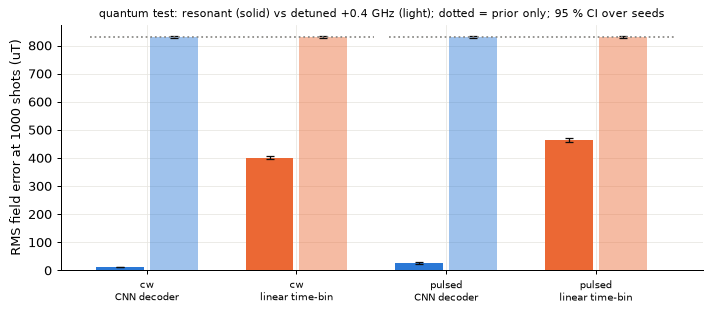
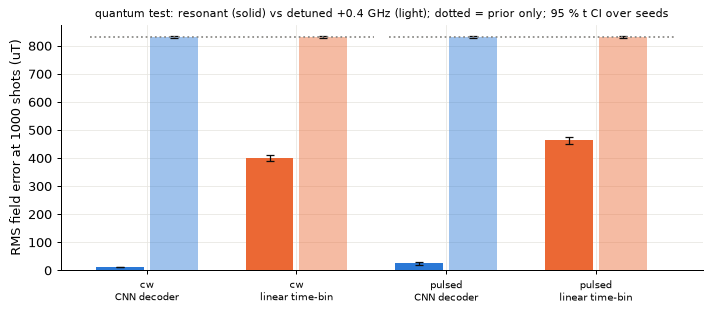
Milestone 2 report rerun: t CIs over seeds, same-field fit-vs-CNN table, separate timing verdicts
Claude-Session: https://claude.ai/code/session_011moV3EPNNknRWZQ686AChh

diff --git a/docs/results/m2-field-estimation.md b/docs/results/m2-field-estimation.md
@@ -7,7 +7,7 @@ Task 1 of the brief: estimate a hidden magnetic field from the glow. Two fixed s
 - **Hidden field**: |B| uniform in [0.5, 3] mT, isotropic direction. An ODMR spectrum cannot tell the sign of B along an NV axis nor which line belongs to which axis, so B is identifiable only up to the 48 signed permutations of the crystal axes; the target is the canonical representative, B folded into the wedge Bx >= By >= Bz >= 0 (generically unique). Errors are the vector error |B_hat - B| in µT.
 - **Nuisance** (one draw per group of 8 fields): T2* log-uniform 0.5-2 µs, Rabi full scale 8-12 MHz, optical beta 0.07-0.13, collection 2e-3-4e-3, background 5e3-2e4 counts/s, strain E 0-0.3 MHz. Decoders see counts normalised by their own mean, so absolute brightness is not a cue.
 - **Protocols** (sweep 2.77-2.97 GHz, 200 points, 1 MHz step): *CW ODMR*, laser + MW (amplitude 0.1) in the steady state, 3 µs dwell per shot per point, one number per point; *pulsed ODMR*, 1.5 µs init, 1 µs dark, a 310 ns MW pulse at amplitude 0.2 (a pi pulse at the nominal Rabi full scale), 600 ns readout recorded in 60 bins of 10 ns: a 60 x 200 input. Shot lengths 3 µs (CW) and 3.41 µs (pulsed), so equal shots are nearly equal time budgets.
-- **Datasets**: per seed 5000 train / 512 validation / 1000 test fields; the surrogate gives the noiseless mean counts of every input cell (M = 32 weighted-uniform detuning nodes, spacing 2 widths), and Poisson noise for a log-uniform number of shots in [10, 10000] is drawn fresh at every training step. CW points use the surrogate's steady-state solve, pulsed sweeps share their init + settle prefix (exact fast paths, docs/notes/surrogate.md). Bank generation took 421 s (CW) and 1544 s (pulsed) in total on cuda NVIDIA GeForce RTX 5070 Ti.
+- **Datasets**: per seed 5000 train / 512 validation / 1000 test fields; the surrogate gives the noiseless mean counts of every input cell (M = 32 weighted-uniform detuning nodes, spacing 2 widths), and Poisson noise for a log-uniform number of shots in [10, 10000] is drawn fresh at every training step. CW points use the surrogate's steady-state solve, pulsed sweeps share their init + settle prefix (exact fast paths, docs/notes/surrogate.md). Bank generation took 416 s (CW) and 1555 s (pulsed) in total on cuda NVIDIA GeForce RTX 5070 Ti.
 
 ## Estimators
 
@@ -17,97 +17,112 @@ Task 1 of the brief: estimate a hidden magnetic field from the glow. Two fixed s
 
 ## Error vs shots
 
-RMS field error (µT), mean over seeds with 95 % bootstrap CI, resonant condition:
+RMS field error (µT), resonant: mean over the 5 seeds with a 95 % Student-t CI over seeds (mean ± t_(n-1) s / √n; each seed has its own fields, nuisance, initialisation and noise, 1000 test fields):
 
-| shots | cw CNN decoder | cw linear time-bin | pulsed CNN decoder | pulsed linear time-bin | cw physics fit | pulsed physics fit |
-| --- | --- | --- | --- | --- | --- | --- |
-| 10 | 464 [455, 473] | 749 [746, 753] | 757 [751, 762] | 1.37e+03 [1.36e+03, 1.38e+03] | 697 | 817 |
-| 30 | 240 [236, 243] | 534 [530, 539] | 639 [629, 650] | 883 [867, 904] | 359 | 810 |
-| 100 | 67.4 [61.8, 75.3] | 447 [441, 452] | 412 [404, 421] | 609 [602, 617] | 36.3 | 609 |
-| 300 | 20.4 [19.9, 20.9] | 412 [406, 420] | 172 [168, 175] | 505 [501, 510] | 20 | 197 |
-| 1000 | 11.9 [11.4, 12.5] | 401 [395, 407] | 26.3 [23.6, 29.1] | 463 [457, 470] | 13.5 | 18.6 |
-| 3000 | 9 [8.48, 9.81] | 397 [392, 403] | 10.1 [9.41, 11.2] | 451 [446, 458] | 11.9 | 11.7 |
-| 10000 | 7.68 [7.17, 8.45] | 396 [391, 402] | 7.55 [7.16, 8.08] | 447 [441, 454] | 10.2 | 10.1 |
+| shots | cw CNN decoder | cw linear time-bin | pulsed CNN decoder | pulsed linear time-bin |
+| --- | --- | --- | --- | --- |
+| 10 | 464 [450, 479] | 749 [744, 754] | 756 [747, 765] | 1.37e+03 [1.36e+03, 1.39e+03] |
+| 30 | 241 [234, 247] | 534 [527, 542] | 640 [625, 656] | 883 [854, 911] |
+| 100 | 67.1 [57.5, 76.7] | 447 [439, 455] | 411 [399, 423] | 609 [597, 621] |
+| 300 | 20.3 [19.6, 21] | 412 [401, 424] | 171 [165, 177] | 505 [498, 513] |
+| 1000 | 11.9 [11, 12.9] | 401 [392, 411] | 26.4 [21.1, 31.8] | 463 [452, 474] |
+| 3000 | 9.06 [7.89, 10.2] | 397 [388, 406] | 10.2 [8.62, 11.8] | 451 [442, 461] |
+| 10000 | 7.76 [6.66, 8.86] | 396 [387, 405] | 7.52 [6.65, 8.4] | 447 [436, 457] |
 
-Prior only (predicting the training mean): 830 µT. Physics fit vs CNN on the *same* fields and noise level (seed 0): cw 10 shots: fit 697 vs CNN 495 µT (fit found dips in 31 %); cw 1000 shots: fit 13.5 vs CNN 11.4 µT (fit found dips in 100 %); cw 10000 shots: fit 10.2 vs CNN 7.64 µT (fit found dips in 100 %); pulsed 10 shots: fit 817 vs CNN 745 µT (fit found dips in 1 %); pulsed 1000 shots: fit 18.6 vs CNN 35.3 µT (fit found dips in 100 %); pulsed 10000 shots: fit 10.1 vs CNN 6.74 µT (fit found dips in 100 %).
+Prior only (predicting the training mean): 830 µT.
+
+### Physics fit vs CNN on the same fields
+
+Seed 0 only, the first 300 test fields, every shot level; fit and CNN each see their own Poisson draw at the same number of shots. Differences are fit - CNN (negative: the fit is better) with 95 % paired-bootstrap CIs over the fields; median = typical-case error; ok = fraction of fits that found significant dips (the rest return the prior).
+
+| protocol | shots | fit RMSE | CNN RMSE | RMSE fit - CNN | fit median | CNN median | median fit - CNN | fit ok |
+| --- | --- | --- | --- | --- | --- | --- | --- | --- |
+| cw | 10 | 697 | 494 | 203 [142, 259] | 534 | 302 | 232 [151, 295] | 31 % |
+| cw | 30 | 359 | 236 | 123 [60.1, 181] | 60.2 | 113 | -53.1 [-70.3, -39] | 86 % |
+| cw | 100 | 36.3 | 53.1 | -16.8 [-24.3, -10] | 26.1 | 33.3 | -7.2 [-12.6, -3.95] | 100 % |
+| cw | 300 | 20 | 22.1 | -2.01 [-6.53, 1.57] | 15.4 | 16.7 | -1.3 [-2.7, 0.319] | 100 % |
+| cw | 1000 | 13.5 | 11.4 | 2.16 [0.734, 3.63] | 8.62 | 8.79 | -0.166 [-0.963, 0.546] | 100 % |
+| cw | 3000 | 11.9 | 8.92 | 2.96 [1.14, 4.92] | 5.74 | 5.96 | -0.213 [-0.893, 0.465] | 100 % |
+| cw | 10000 | 10.2 | 7.55 | 2.69 [0.675, 4.62] | 3.38 | 4.62 | -1.23 [-1.61, -0.708] | 100 % |
+| pulsed | 10 | 817 | 746 | 71.4 [32.7, 111] | 722 | 609 | 112 [64, 170] | 1 % |
+| pulsed | 30 | 810 | 621 | 189 [148, 228] | 721 | 470 | 250 [176, 296] | 3 % |
+| pulsed | 100 | 609 | 420 | 190 [136, 245] | 300 | 214 | 86.2 [-12.4, 172] | 54 % |
+| pulsed | 300 | 197 | 147 | 49.7 [-6.77, 101] | 23.7 | 51.2 | -27.5 [-39, -19.7] | 97 % |
+| pulsed | 1000 | 18.6 | 35.9 | -17.2 [-36.7, -0.843] | 11.7 | 13.2 | -1.47 [-3.11, -0.326] | 100 % |
+| pulsed | 3000 | 11.7 | 9.16 | 2.5 [1.25, 3.79] | 7.97 | 7.29 | 0.678 [-0.286, 1.66] | 100 % |
+| pulsed | 10000 | 10.1 | 6.55 | 3.53 [2.28, 4.86] | 5.58 | 4.99 | 0.591 [0.193, 1.21] | 100 % |
+
+Comparison against the classical baseline: **cw**: by RMSE the fit is better at 100 shots, the CNN at 10, 30, 1000, 3000, 10000, no significant difference at 300; by median (typical case) the fit is better at 30, 100, 10000, the CNN at 10, no significant difference at 300, 1000, 3000; where the fit wins on median but not on RMSE, a minority of large fit errors (failed fits, mis-assigned lines, shape bias) carries its RMSE: 30 (14 % failed fits), 10000 (0 % failed fits). **pulsed**: by RMSE the fit is better at 1000 shots, the CNN at 10, 30, 100, 3000, 10000, no significant difference at 300; by median (typical case) the fit is better at 300, 1000, the CNN at 10, 30, 10000, no significant difference at 100, 3000; where the fit wins on median but not on RMSE, a minority of large fit errors (failed fits, mis-assigned lines, shape bias) carries its RMSE: 300 (3 % failed fits). In short, the physics fit is cw: as good or better by RMSE at 100, 300 shots, in the typical case at 30, 100, 300, 1000, 3000, 10000; pulsed: as good or better by RMSE at 300, 1000 shots, in the typical case at 100, 300, 1000, 3000. The CNN wins where the fit finds no dips (the lowest shot levels) and on RMSE at high shots, where the fit's E = 0 / Lorentzian-shape bias sets a floor; it is not better everywhere, and its other advantage is an uncertainty that is close to calibrated (next section).
 
 ## Calibration
 
-Calibration of the predicted per-component sigma, resonant, mean over seeds: RMS of error / sigma (1 = calibrated) and coverage of the 68 % / 95 % intervals.
+Calibration of the predicted per-component sigma, resonant, mean over seeds: RMS of error / sigma (1 = calibrated) and coverage of the 68 % / 95 % intervals. Fit columns: seed 0, 300 fields.
 
 | shots | cw CNN decoder | cw linear time-bin | pulsed CNN decoder | pulsed linear time-bin | cw fit | pulsed fit |
 | --- | --- | --- | --- | --- | --- | --- |
-| 10 | 1.01 (72 / 95 %) | 1.28 (57 / 88 %) | 1.01 (67 / 95 %) | 1.25 (59 / 89 %) | 11.40 (55 / 78 %) | 18.84 (66 / 96 %) |
-| 30 | 0.99 (75 / 95 %) | 1.01 (68 / 95 %) | 1.00 (70 / 95 %) | 1.04 (68 / 94 %) | 4.53 (50 / 73 %) | 35.23 (64 / 94 %) |
-| 100 | 1.02 (71 / 94 %) | 0.92 (73 / 97 %) | 1.00 (74 / 95 %) | 0.93 (73 / 96 %) | 1.40 (62 / 88 %) | 11.47 (52 / 74 %) |
-| 300 | 1.08 (66 / 93 %) | 0.91 (73 / 97 %) | 1.02 (74 / 95 %) | 0.90 (75 / 97 %) | 1.18 (65 / 91 %) | 10.20 (50 / 77 %) |
-| 1000 | 1.15 (64 / 91 %) | 0.97 (70 / 96 %) | 1.11 (66 / 93 %) | 0.94 (73 / 96 %) | 1.25 (66 / 91 %) | 1.51 (60 / 85 %) |
-| 3000 | 1.15 (67 / 92 %) | 1.04 (67 / 94 %) | 1.15 (64 / 92 %) | 1.03 (69 / 94 %) | 1.72 (57 / 83 %) | 1.77 (57 / 84 %) |
-| 10000 | 1.13 (70 / 93 %) | 1.15 (62 / 91 %) | 1.05 (70 / 94 %) | 1.21 (63 / 90 %) | 2.16 (54 / 79 %) | 2.26 (50 / 78 %) |
+| 10 | 1.01 (73 / 95 %) | 1.28 (57 / 88 %) | 1.01 (67 / 95 %) | 1.25 (59 / 89 %) | 11.40 (55 / 78 %) | 18.84 (66 / 96 %) |
+| 30 | 0.99 (74 / 95 %) | 1.01 (68 / 95 %) | 1.00 (70 / 95 %) | 1.04 (68 / 94 %) | 4.53 (50 / 73 %) | 35.23 (64 / 94 %) |
+| 100 | 1.02 (71 / 95 %) | 0.92 (73 / 97 %) | 0.99 (74 / 95 %) | 0.93 (73 / 96 %) | 1.40 (62 / 88 %) | 11.47 (52 / 74 %) |
+| 300 | 1.08 (66 / 93 %) | 0.91 (73 / 97 %) | 1.03 (74 / 94 %) | 0.90 (75 / 97 %) | 1.18 (65 / 91 %) | 10.20 (50 / 77 %) |
+| 1000 | 1.16 (64 / 91 %) | 0.97 (70 / 96 %) | 1.11 (66 / 93 %) | 0.94 (73 / 96 %) | 1.25 (66 / 91 %) | 1.51 (60 / 85 %) |
+| 3000 | 1.15 (66 / 92 %) | 1.04 (67 / 94 %) | 1.15 (65 / 92 %) | 1.03 (69 / 94 %) | 1.72 (57 / 83 %) | 1.77 (57 / 84 %) |
+| 10000 | 1.14 (70 / 93 %) | 1.15 (62 / 91 %) | 1.05 (70 / 94 %) | 1.21 (63 / 90 %) | 2.16 (54 / 79 %) | 2.26 (50 / 78 %) |
+
+The CNN is well calibrated (z RMS within 10 % of 1) below 1000 shots (z RMS 0.99-1.08, 68 % coverage 66-74 %) and mildly over-confident (sigma about 5-16 % too small) at >= 1000 shots (z RMS 1.05-1.16; 68 % coverage 64-70 %). The physics fit's Jacobian sigma: z RMS up to 35.2 over the shot levels (failed or mis-assigned fits at low shots) and 2.16-2.26 at 10000 shots, where its error (10 µT RMS) includes the E = 0 and Lorentzian-shape bias that the Jacobian does not know about.
 
 ## Quantum test
 
-Every learned estimator was retrained from scratch and evaluated with every MW frequency shifted by +400 MHz (no line within 222 MHz of any MW frequency in the spot checks; `check_no_line_driven`), same fields, nuisance, initialisation and noise seeds per seed (paired). Headline: RMS field error at 1000 shots; skill = 1 - error / prior-only error. 95 % percentile-bootstrap CIs over the seeds; gap > 0 means better on resonance.
+Every learned estimator was retrained from scratch and evaluated with every MW frequency shifted by +400 MHz (no line within 222 MHz of any MW frequency in the spot checks; `check_no_line_driven`), same fields, nuisance, initialisation and noise seeds per seed (paired). Headline: RMS field error at 1000 shots; skill = 1 - error / prior-only error. 95 % Student-t CIs over the 5 seeds (the gap paired per seed); gap > 0 means better on resonance.
 
 | metric | resonant | detuned | gap (better on resonance > 0) | per seed (resonant / detuned) |
 | --- | --- | --- | --- | --- |
-| cw_cnn_rmse_ut | 11.9 [11.4, 12.4] | 831 [828, 833] | 819 [817, 820] | 11.2, 11.7, 11.5, 11.9, 13; 829, 827, 830, 833, 834 |
-| cw_linear_rmse_ut | 401 [395, 407] | 831 [828, 833] | 429 [424, 434] | 402, 393, 396, 413, 402; 829, 827, 830, 833, 834 |
-| pulsed_cnn_rmse_ut | 26.3 [23.5, 29.1] | 831 [828, 833] | 804 [801, 807] | 30.3, 22.2, 24, 24.9, 30; 829, 827, 830, 833, 834 |
-| pulsed_linear_rmse_ut | 463 [457, 470] | 830 [828, 833] | 367 [361, 374] | 468, 459, 455, 476, 457; 829, 827, 830, 833, 834 |
-| cw_cnn_skill | 0.986 [0.985, 0.986] | -0.000161 [-0.000251, -8.97e-05] | 0.986 [0.985, 0.986] | 0.986, 0.986, 0.986, 0.986, 0.984; -7.47e-05, -0.000318, -9.29e-05, -0.000206, -0.000113 |
-| cw_linear_skill | 0.517 [0.51, 0.523] | -7.89e-05 [-0.00013, -3.67e-05] | 0.517 [0.51, 0.523] | 0.515, 0.525, 0.523, 0.504, 0.518; -1.88e-05, -6.92e-05, -9.63e-05, -3.85e-05, -0.000172 |
-| pulsed_cnn_skill | 0.968 [0.965, 0.972] | -0.000184 [-0.000258, -0.00011] | 0.969 [0.965, 0.972] | 0.963, 0.973, 0.971, 0.97, 0.964; -0.000113, -0.000283, -9.36e-05, -0.000294, -0.000137 |
-| pulsed_linear_skill | 0.442 [0.434, 0.451] | -3.51e-05 [-0.000149, 7.86e-05] | 0.443 [0.434, 0.451] | 0.436, 0.445, 0.452, 0.428, 0.452; 0.000134, -0.000171, -6.46e-06, -0.000198, 6.53e-05 |
+| cw_cnn_rmse_ut | 11.9 [11, 12.9] | 831 [827, 834] | 819 [816, 822] | 11.2, 11.7, 11.5, 12, 13.2; 829, 827, 830, 833, 834 |
+| cw_linear_rmse_ut | 401 [392, 411] | 831 [827, 834] | 429 [422, 437] | 402, 393, 396, 413, 402; 829, 827, 830, 833, 834 |
+| pulsed_cnn_rmse_ut | 26.4 [21.1, 31.8] | 831 [827, 834] | 804 [798, 810] | 32.2, 22.4, 24.5, 23.2, 29.8; 829, 827, 830, 833, 834 |
+| pulsed_linear_rmse_ut | 463 [452, 474] | 830 [827, 834] | 367 [357, 378] | 468, 459, 455, 476, 457; 829, 827, 830, 833, 834 |
+| cw_cnn_skill | 0.986 [0.985, 0.987] | -0.000159 [-0.000262, -5.72e-05] | 0.986 [0.985, 0.987] | 0.986, 0.986, 0.986, 0.986, 0.984; -9.83e-05, -0.000283, -9.8e-05, -0.000206, -0.000112 |
+| cw_linear_skill | 0.517 [0.507, 0.527] | -7.89e-05 [-0.000153, -4.71e-06] | 0.517 [0.507, 0.527] | 0.515, 0.525, 0.523, 0.504, 0.518; -1.88e-05, -6.92e-05, -9.63e-05, -3.85e-05, -0.000172 |
+| pulsed_cnn_skill | 0.968 [0.962, 0.975] | -0.000121 [-0.000404, 0.000162] | 0.968 [0.962, 0.975] | 0.961, 0.973, 0.971, 0.972, 0.964; -0.000445, 0.000175, -9.29e-05, -0.000205, -3.82e-05 |
+| pulsed_linear_skill | 0.442 [0.429, 0.456] | -3.51e-05 [-0.000216, 0.000145] | 0.443 [0.429, 0.456] | 0.436, 0.445, 0.452, 0.428, 0.452; 0.000134, -0.000171, -6.46e-06, -0.000198, 6.53e-05 |
 
-Outcome: cw CNN gap 819 [817, 820] µT (significant); pulsed CNN gap 804 [801, 807] µT (significant). Detuned, the CNN's skill is cw -0.000161 [-0.000251, -8.97e-05], pulsed -0.000184 [-0.000258, -0.00011]: with no line driven the spectrum carries (almost) no field information and the decoders fall back to the prior. The physics fit on the detuned spectra found dips in cw 0 %, pulsed 0 % of the cases at 1000 shots.
+Outcome: cw CNN gap 819 [816, 822] µT (significant); pulsed CNN gap 804 [798, 810] µT (significant). Detuned, the CNN's skill is cw -0.000159 [-0.000262, -5.72e-05], pulsed -0.000121 [-0.000404, 0.000162]: with no line driven the spectrum carries (almost) no field information and the decoders fall back to the prior (a skill slightly below 0 is expected: the training mean they fall back to differs slightly from the test mean; the B_perp level-mixing signal that would survive detuning is far below the shot noise and is masked by the per-sample normalisation). The physics fit on the detuned spectra found dips in cw 0 %, pulsed 0 % of the cases at 1000 shots.
 
 ### Does the learned strategy use microsecond-scale timing?
 
-Task 1 uses fixed protocols, so the strategy is the protocol plus the learned decoder. The CW protocol has no timing structure by construction (MW and laser on together, steady state; Rabi-band fraction of its MW envelope 0.00). The pulsed protocol's MW pulse has area 1.01 pi at the nominal Rabi frequency (Rabi-band fraction 0.24). Probe: the seed-0 pulsed decoders, frozen, on test fields re-simulated with the MW pulse lengthened or shortened (RMS error at 1000 shots, 95 % bootstrap CI over 200 fields x 4 noise draws):
+No timing is learned in M2: both protocols are fixed and hand-designed, and what is learned is the decoder. The log therefore keeps two verdicts apart.
 
-| pulse length (ns) | CNN decoder, resonant | linear time-bin, resonant | CNN decoder, detuned | linear time-bin, detuned |
-| --- | --- | --- | --- | --- |
-| 110 | 232 [210, 254] | 529 [512, 546] | 792 [771, 813] | 791 [770, 812] |
-| 210 | 36.4 [32.8, 40.4] | 460 [443, 477] | 792 [771, 812] | 791 [771, 813] |
-| 260 | 22.5 [20.7, 24.4] | 448 [430, 466] | 792 [771, 813] | 791 [771, 812] |
-| 310 | 27.5 [20, 37.5] | 442 [425, 461] | 792 [771, 812] | 791 [770, 812] |
-| 360 | 92.2 [73.1, 112] | 474 [458, 490] | 792 [770, 812] | 791 [770, 812] |
-| 410 | 197 [179, 215] | 535 [521, 551] | 792 [770, 812] | 791 [771, 812] |
-| 510 | 388 [361, 414] | 627 [611, 643] | 792 [771, 813] | 791 [770, 813] |
+**(a) The fixed protocol** (`protocol_uses_rabi_timing`). The CW protocol has no timing structure by construction (MW and laser on together, steady state; Rabi-band fraction of its MW envelope 0.00). The pulsed protocol's MW pulse is a hand-designed pi pulse, area 1.01 pi at the nominal Rabi frequency (Rabi-band fraction 0.24). Pulse-area sensitivity: the seed-0 pulsed decoders, frozen, on test fields re-simulated with the MW pulse lengthened or shortened (RMS error at 1000 shots with a 95 % bootstrap CI over 200 fields, squared errors averaged over the 4 noise draws of each field first; line contrast = mean deepest dip of the readout-summed spectrum):
 
-Readout saliency of the resonant CNN: 48 % of |d|B_hat|/d input| falls in the first 300 ns of the readout (uniform would be 50 %); the physical spin contrast per readout bin and the linear model's learned time weights are in the timing figure. Logged verdict `uses_us_timing` (resonant error rises beyond its CI for |shift| >= 100 ns while the detuned one does not): **True**: the resonant decoder depends on the MW pulse being a pi pulse, i.e. on Rabi timing at the ~100 ns scale.
+| pulse length (ns) | area (pi) | line contrast | CNN, resonant | CNN median, resonant | linear, resonant | CNN, detuned | linear, detuned |
+| --- | --- | --- | --- | --- | --- | --- | --- |
+| 110 | 0.36 | 2.9 % | 232 [204, 258] | 108 | 529 [496, 562] | 792 [750, 833] | 791 [749, 832] |
+| 210 | 0.69 | 6.0 % | 36 [31.5, 41.2] | 23.6 | 460 [426, 495] | 792 [752, 833] | 791 [749, 832] |
+| 260 | 0.85 | 6.6 % | 22.9 [20.4, 25.6] | 15.3 | 448 [414, 482] | 792 [748, 833] | 791 [751, 832] |
+| 310 | 1.01 | 6.5 % | 27.9 [19.8, 38] | 13.2 | 442 [407, 478] | 792 [750, 834] | 791 [750, 832] |
+| 360 | 1.18 | 5.9 % | 88.2 [66, 110] | 19.4 | 474 [444, 505] | 792 [750, 833] | 791 [748, 834] |
+| 410 | 1.34 | 4.8 % | 192 [169, 213] | 71.9 | 535 [505, 565] | 792 [751, 834] | 791 [750, 833] |
+| 510 | 1.67 | 3.4 % | 389 [352, 426] | 206 | 627 [597, 655] | 792 [749, 834] | 791 [747, 833] |
+
+Verdict `protocol_uses_rabi_timing` = **True** (criterion: the protocol's pulse is a pi pulse and the resonant error rises beyond its CI for some |shift| >= 100 ns). Caveats: this is a property of the hand-designed protocol, not of anything learned; the detuned arm sits at the prior at every length, so 'the detuned error does not rise' cannot fail and is no evidence; and a frozen decoder's degradation mixes the physical loss of contrast (column) with distribution shift, since no decoder retrained at each length is run. At the trained 310 ns the CNN's RMSE is 27.9 [19.8, 38] µT against a median of 13.2 µT (RMSE / median 2.1: heavy-tailed, a few fields with overlapping lines dominate the RMSE), and 260 ns does about as well or slightly better (22.9 µT): the decoder was trained across Rabi full scales of 8-12 MHz, so the nominal pi pulse is right only on average.
+
+**(b) What the decoder learned about time** (`decoder_weighting_follows_contrast`). The CNN's saliency per readout bin correlates with the physical spin contrast per bin at r = 0.98 (the linear model's learned time weights at r = 0.40); 48 % of the saliency falls in the first 300 ns of the readout (uniform: 50 %). Verdict **True** (criterion r >= 0.8): the decoder learned a 10-ns time-bin weighting of the readout that follows the spin-contrast transient. It chose no pulse timing: `strategy_learns_timing` = **False** for Task 1.
 
 ## Reference check (QuTiP)
 
-3 seed-0 test fields re-simulated with the QuTiP reference (same detuning nodes; CW points 20 µs long, last 2 µs) and fed to the surrogate-trained CNN (226 s on the CPU pool):
+3 seed-0 test fields re-simulated with the QuTiP reference (same detuning nodes; CW points 20 µs long, last 2 µs) and fed to the surrogate-trained CNN (176 s on the CPU pool):
 
 | protocol | max feature diff / peak | max pred. diff, noiseless (µT) | RMS error at 1000 shots ref / surrogate (µT, 64 draws) |
 | --- | --- | --- | --- |
-| cw | 7.2e-08 | 0.0065 | 11.2 / 11.2 |
-| pulsed | 3.1e-05 | 0.015 | 29.1 / 29.1 |
+| cw | 7.2e-08 | 0.00728 | 11.3 / 11.3 |
+| pulsed | 3.1e-05 | 0.0144 | 32 / 32 |
 
 ## Notes and open issues
 
 - Field priors and nuisance ranges are assumptions (`FieldPrior`), not a characterised sample; the model excludes hyperfine structure and excited-state mixing (docs/physics.md section 10), which a real spectrum has. No claim of quantum advantage: the gap only shows the estimate needs the driven spin resonance.
+- The 48-fold target (`fold_to_wedge`) is exact for the line positions but only approximate for the line amplitudes: the MW drive along [100] keeps only the 16 signed permutations that fix ±x. Folding by all 48 is a deliberate, conservative (coarser) target.
 - The physics fit assumes E = 0 and a Lorentzian lineshape (the pulsed line is not exactly Lorentzian); it is evaluated for seed 0 only.
-- Five seeds make the bootstrap CIs coarse; per-seed values are in the table.
-
-Notes added after reading the run:
-
-- The CNN at the trained 310 ns pulse has a wide CI (27.5 [20, 37.5] µT) and 260 ns does slightly better
-  (22.5 µT): the error is heavy-tailed (a few fields with overlapping lines dominate the RMS), and the decoder was
-  trained across Rabi full scales of 8-12 MHz, so the nominal pi pulse is only right on average. The point of the
-  probe stands: at 110 ns or 510 ns the error rises 8-14x on resonance and not at all detuned.
-- The physics fit beats the pulsed CNN on seed 0 at 1000 shots (18.6 vs 35.3 µT on the same 300 fields), the
-  CNN wins at >= 3000 shots and on CW; the fit's sigma is badly calibrated below ~300 shots (failed or
-  mis-assigned fits with Jacobian errors) and ~2x over-confident at high shots (E = 0 and Lorentzian-shape bias,
-  ~10 µT floor).
-- The detuned skill is ~-2e-4 (slightly below 0): with no field information the best the decoders can do is the
-  training mean, which differs slightly from the test mean. The B_perp level-mixing signal that would survive
-  detuning is far below the shot noise at 1e4 shots and is masked by the per-sample normalisation.
-- Process pools: with 32 spawn workers some worker starts on the GPU machine failed for lack of page-file commit
-  (each worker imports torch); the pools replaced them and every item completed. The config default is now 16.
+- Five seeds: the over-seed CIs are Student-t intervals (a percentile bootstrap over 5 values covers ~83 % at a nominal 95 %); per-seed values are in the quantum-test table.
+- Process pools: each spawn worker imports torch; with 32 workers some worker starts on the GPU machine failed for lack of page-file commit (the pools replaced them and every item completed), so the config uses 16.
 
 ![inputs](figures/m2-field-estimation-inputs.png)
 
@@ -121,12 +136,13 @@ Notes added after reading the run:
 
 ## Provenance
 
-- run id: `20261125-214404-m2-field-estimation-75e9`
-- git: `526e6899c62e095a9cfe1dc4fd338147b76ebe42`
+- run id: `20261125-235523-m2-field-estimation-d5ba`
+- git: `dc60fea73b2000ba60b9da29c80e2cee4ebb55cc`
 - seed: 20261126
 - device: cuda NVIDIA GeForce RTX 5070 Ti
 - python 3.12.14, glowbox 0.1.0, torch 2.11.0+cu128, qutip 5.3.1, numpy 2.5.5, scipy 1.18.1, pyarrow 26.0.1
-- started 2026-11-25T21:44:04+00:00, finished 2026-11-25T23:25:04+00:00
+- started 2026-11-25T23:55:23+00:00, finished 2026-11-26T01:31:52+00:00
+- the two generated summary paragraphs "Comparison against the classical baseline" and "The CNN is ..." were regenerated from this run's `fit_results.parquet` / `results.parquet` with the next commit's `fit_vs_cnn_conclusion` / `calibration_summary` (wording only; no number changed)
 
 ## Config
 
@@ -161,7 +177,7 @@ eval:
   - 10000
 fit:
   n_fields: 300
-  workers: 32
+  workers: 16
 linear_train:
   lr: 0.003
   steps: 4000
@@ -190,7 +206,7 @@ prior:
 reference:
   cw_ns: 20000
   n_fields: 3
-  workers: 32
+  workers: 16
 seed: 20261126
 seeds:
 - 0
@@ -234,32 +250,39 @@ train:
 
 | metric | value |
 | --- | --- |
-| cw_cnn_rmse_ut_resonant | 11.8714 |
-| cw_cnn_rmse_ut_detuned | 830.576 |
-| cw_cnn_gap_ut | 818.705 |
-| cw_cnn_gap_lo_ut | 816.799 |
-| cw_cnn_gap_hi_ut | 820.489 |
+| cw_cnn_rmse_ut_resonant | 11.9121 |
+| cw_cnn_rmse_ut_detuned | 830.575 |
+| cw_cnn_gap_ut | 818.663 |
+| cw_cnn_gap_lo_ut | 815.747 |
+| cw_cnn_gap_hi_ut | 821.579 |
 | cw_linear_rmse_ut_resonant | 401.141 |
 | cw_linear_rmse_ut_detuned | 830.508 |
 | cw_linear_gap_ut | 429.367 |
-| cw_linear_gap_lo_ut | 424 |
-| cw_linear_gap_hi_ut | 433.661 |
+| cw_linear_gap_lo_ut | 421.739 |
+| cw_linear_gap_hi_ut | 436.995 |
 | cw_prior_rmse_ut | 830.443 |
 | cw_fit_rmse_ut_resonant | 13.5195 |
+| cw_fit_median_ut_resonant | 8.62402 |
+| cw_cnn_median_ut_same_fields | 8.78976 |
 | cw_ref_max_rel_feature_diff | 7.17457e-08 |
-| pulsed_cnn_rmse_ut_resonant | 26.2646 |
-| pulsed_cnn_rmse_ut_detuned | 830.596 |
-| pulsed_cnn_gap_ut | 804.331 |
-| pulsed_cnn_gap_lo_ut | 801.397 |
-| pulsed_cnn_gap_hi_ut | 806.753 |
+| pulsed_cnn_rmse_ut_resonant | 26.4085 |
+| pulsed_cnn_rmse_ut_detuned | 830.544 |
+| pulsed_cnn_gap_ut | 804.135 |
+| pulsed_cnn_gap_lo_ut | 798.417 |
+| pulsed_cnn_gap_hi_ut | 809.853 |
 | pulsed_linear_rmse_ut_resonant | 462.972 |
 | pulsed_linear_rmse_ut_detuned | 830.472 |
 | pulsed_linear_gap_ut | 367.5 |
-| pulsed_linear_gap_lo_ut | 360.556 |
-| pulsed_linear_gap_hi_ut | 374.443 |
+| pulsed_linear_gap_lo_ut | 356.539 |
+| pulsed_linear_gap_hi_ut | 378.461 |
 | pulsed_prior_rmse_ut | 830.443 |
 | pulsed_fit_rmse_ut_resonant | 18.6272 |
+| pulsed_fit_median_ut_resonant | 11.7264 |
+| pulsed_cnn_median_ut_same_fields | 13.1944 |
 | pulsed_ref_max_rel_feature_diff | 3.06278e-05 |
-| uses_us_timing_pulsed | 1 |
+| protocol_uses_rabi_timing_pulsed | 1 |
+| decoder_weighting_follows_contrast_pulsed | 1 |
+| saliency_contrast_corr_pulsed | 0.979495 |
+| strategy_learns_timing | 0 |
 | no_line_margin_mhz | 222.022 |
-| wall_seconds | 6059.98 |
+| wall_seconds | 5789.44 |

diff --git a/README.md b/README.md
@@ -32,13 +32,18 @@ test). Report: [docs/results/m2-field-estimation.md](docs/results/m2-field-estim
 sweep point, CW and pulsed ODMR, mean over 5 seeds with 95 % CIs. Detuned (dashed): every estimator falls to the
 prior.*
 
-- At 1000 shots per point the CNN decoder reaches 11.9 [11.4, 12.4] µT (CW) and 26.3 [23.5, 29.1] µT (pulsed); the
-  physics fit (Lorentzian dips at the H0 transitions of a trial field) 13.5 / 18.6 µT; the linear time-bin
-  baseline ~400 µT; prior only 830 µT. The CNN's uncertainty is calibrated (error/sigma RMS 1.0-1.15).
+- At 1000 shots per point the CNN decoder reaches 11.9 [11.0, 12.9] µT (CW) and 26.4 [21.1, 31.8] µT (pulsed;
+  95 % Student-t CIs over 5 seeds); the linear time-bin baseline ~400 µT; prior only 830 µT. The physics fit
+  (Lorentzian dips at the H0 transitions of a trial field, seed 0, same 300 fields) is as good or better than the
+  CNN at 100-300 shots (CW) and 300-1000 shots (pulsed, typical case; 18.6 vs 35.9 µT RMSE at 1000); the CNN wins
+  where the fit finds few dips (<= 30 shots CW, <= 100 pulsed) and on RMSE at >= 1000 (CW) / 3000 (pulsed) shots.
+  The CNN's uncertainty is well calibrated below 1000 shots and 5-16 % over-confident at >= 1000.
 - Quantum test: with the microwaves 400 MHz off resonance every learned estimator drops to the prior (skill
-  ~0); gap 819 [817, 820] µT (CW CNN), 804 [801, 807] µT (pulsed CNN). The pulsed decoder relies on its pulse
-  being a pi pulse (error 8-14x higher at 110 / 510 ns instead of 310 ns, flat when detuned): it uses Rabi
-  timing. The decoders agree on QuTiP-reference inputs to < 0.02 µT.
+  ~0); gap 819 [816, 822] µT (CW CNN), 804 [798, 810] µT (pulsed CNN). Timing: no timing is learned in M2 (fixed
+  protocols). The hand-designed pulsed protocol relies on its pi pulse (`protocol_uses_rabi_timing`: frozen-decoder
+  error 8-14x higher at 110 / 510 ns, which mixes contrast loss and distribution shift); what the decoder learned
+  is a readout time-bin weighting that follows the spin-contrast transient (saliency vs contrast r = 0.98). The
+  decoders agree on QuTiP-reference inputs to < 0.02 µT.
 - Code: `glowbox/learn/field_data.py` (priors, protocols, surrogate datasets), `glowbox/learn/decoder.py`
   (1D CNN + Gaussian NLL, linear time-bin baseline), `glowbox/analysis/field_fit.py` (physics fit),
   `glowbox/analysis/quantum_test.py` (the reusable quantum-test harness), surrogate fast paths for sweeps
